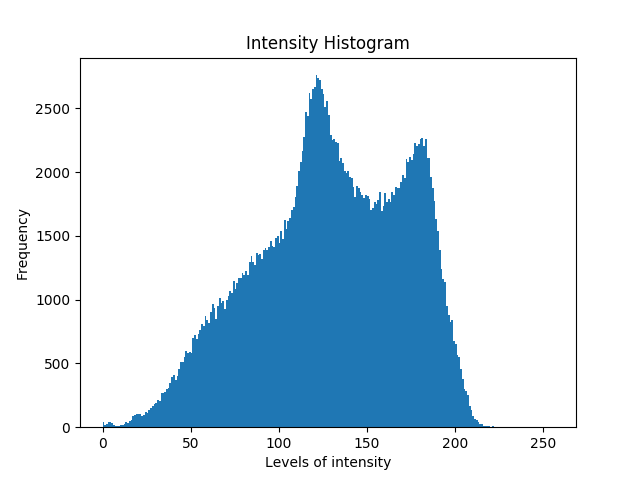
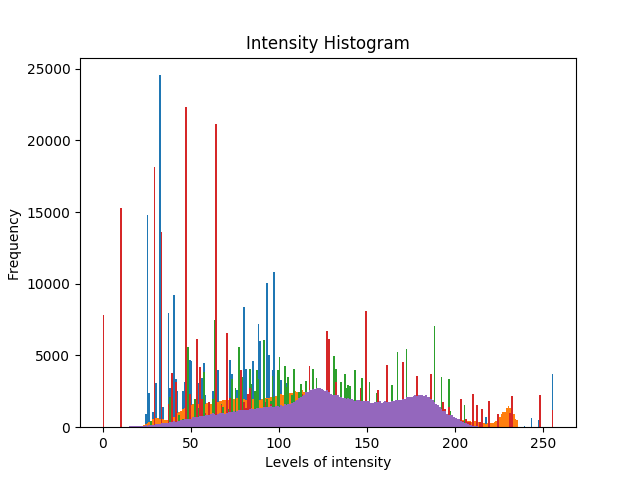
Modifying the main to go throug all the files in a given directory

diff --git a/proj0/main.py b/proj0/main.py
@@ -1,21 +1,24 @@
 from manageImage import ManageImage
+import os
 
 def main():
 
[1 lines of base64/hex data omitted]
-    filename = str(input("Enter the image name: "))
-    manager = ManageImage(path,filename)
+    #filename = str(input("Enter the image name: "))
 
-    # here we call the method that reads the png image
-    image = manager.readImage()
-    # here we plot the histogram of the given image
-    manager.imageHistogram(image)
-    # here we plot the statics of the given image
-    manager.imageStatics(image)
-    # here we plot the negative of an image
-    manager.imageNegative(image)
-    # here we change the range color of the image
-    manager.convertImageRange(image,120)
+    for filename in os.listdir(path):
+        # invoke the object
+        manager = ManageImage(path,filename)
+        # here we call the method that reads the png image
+        image = manager.readImage()
+        # here we plot the histogram of the given image
+        manager.imageHistogram(image)
+        # here we plot the statics of the given image
+        manager.imageStatics(image)
+        # here we plot the negative of an image
+        manager.imageNegative(image)
+        # here we change the range color of the image
+        manager.convertImageRange(image,120)
 
 if __name__ == '__main__':
     main()
